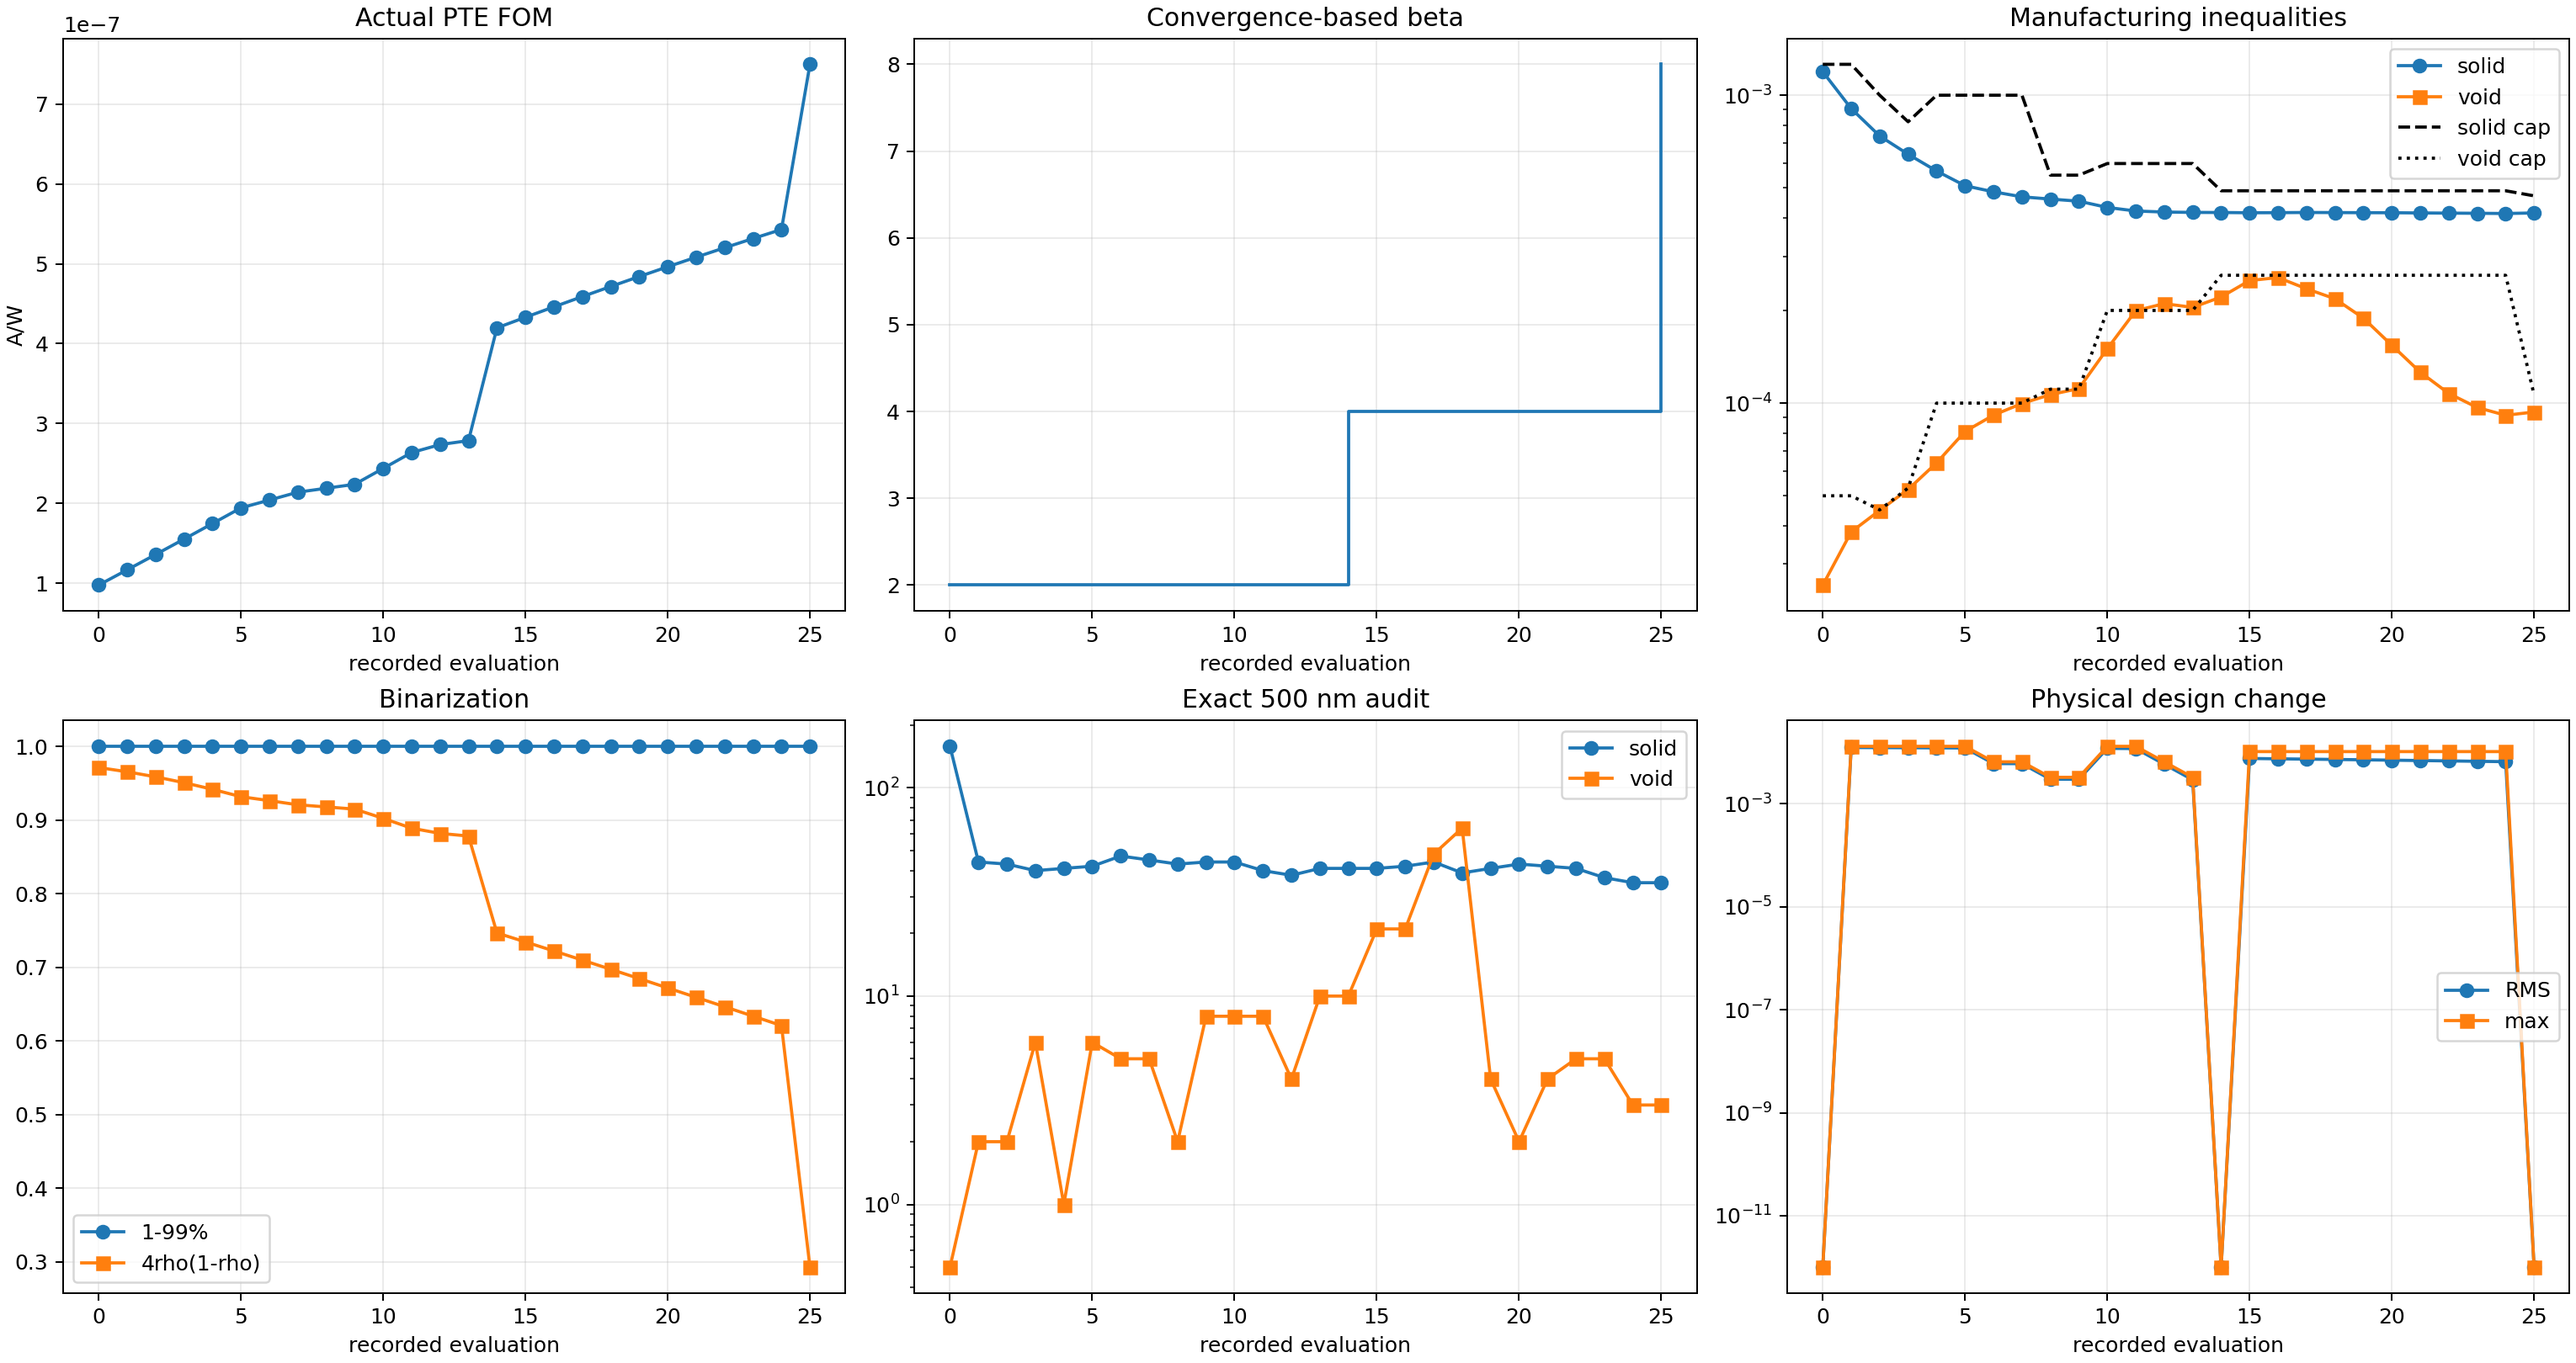
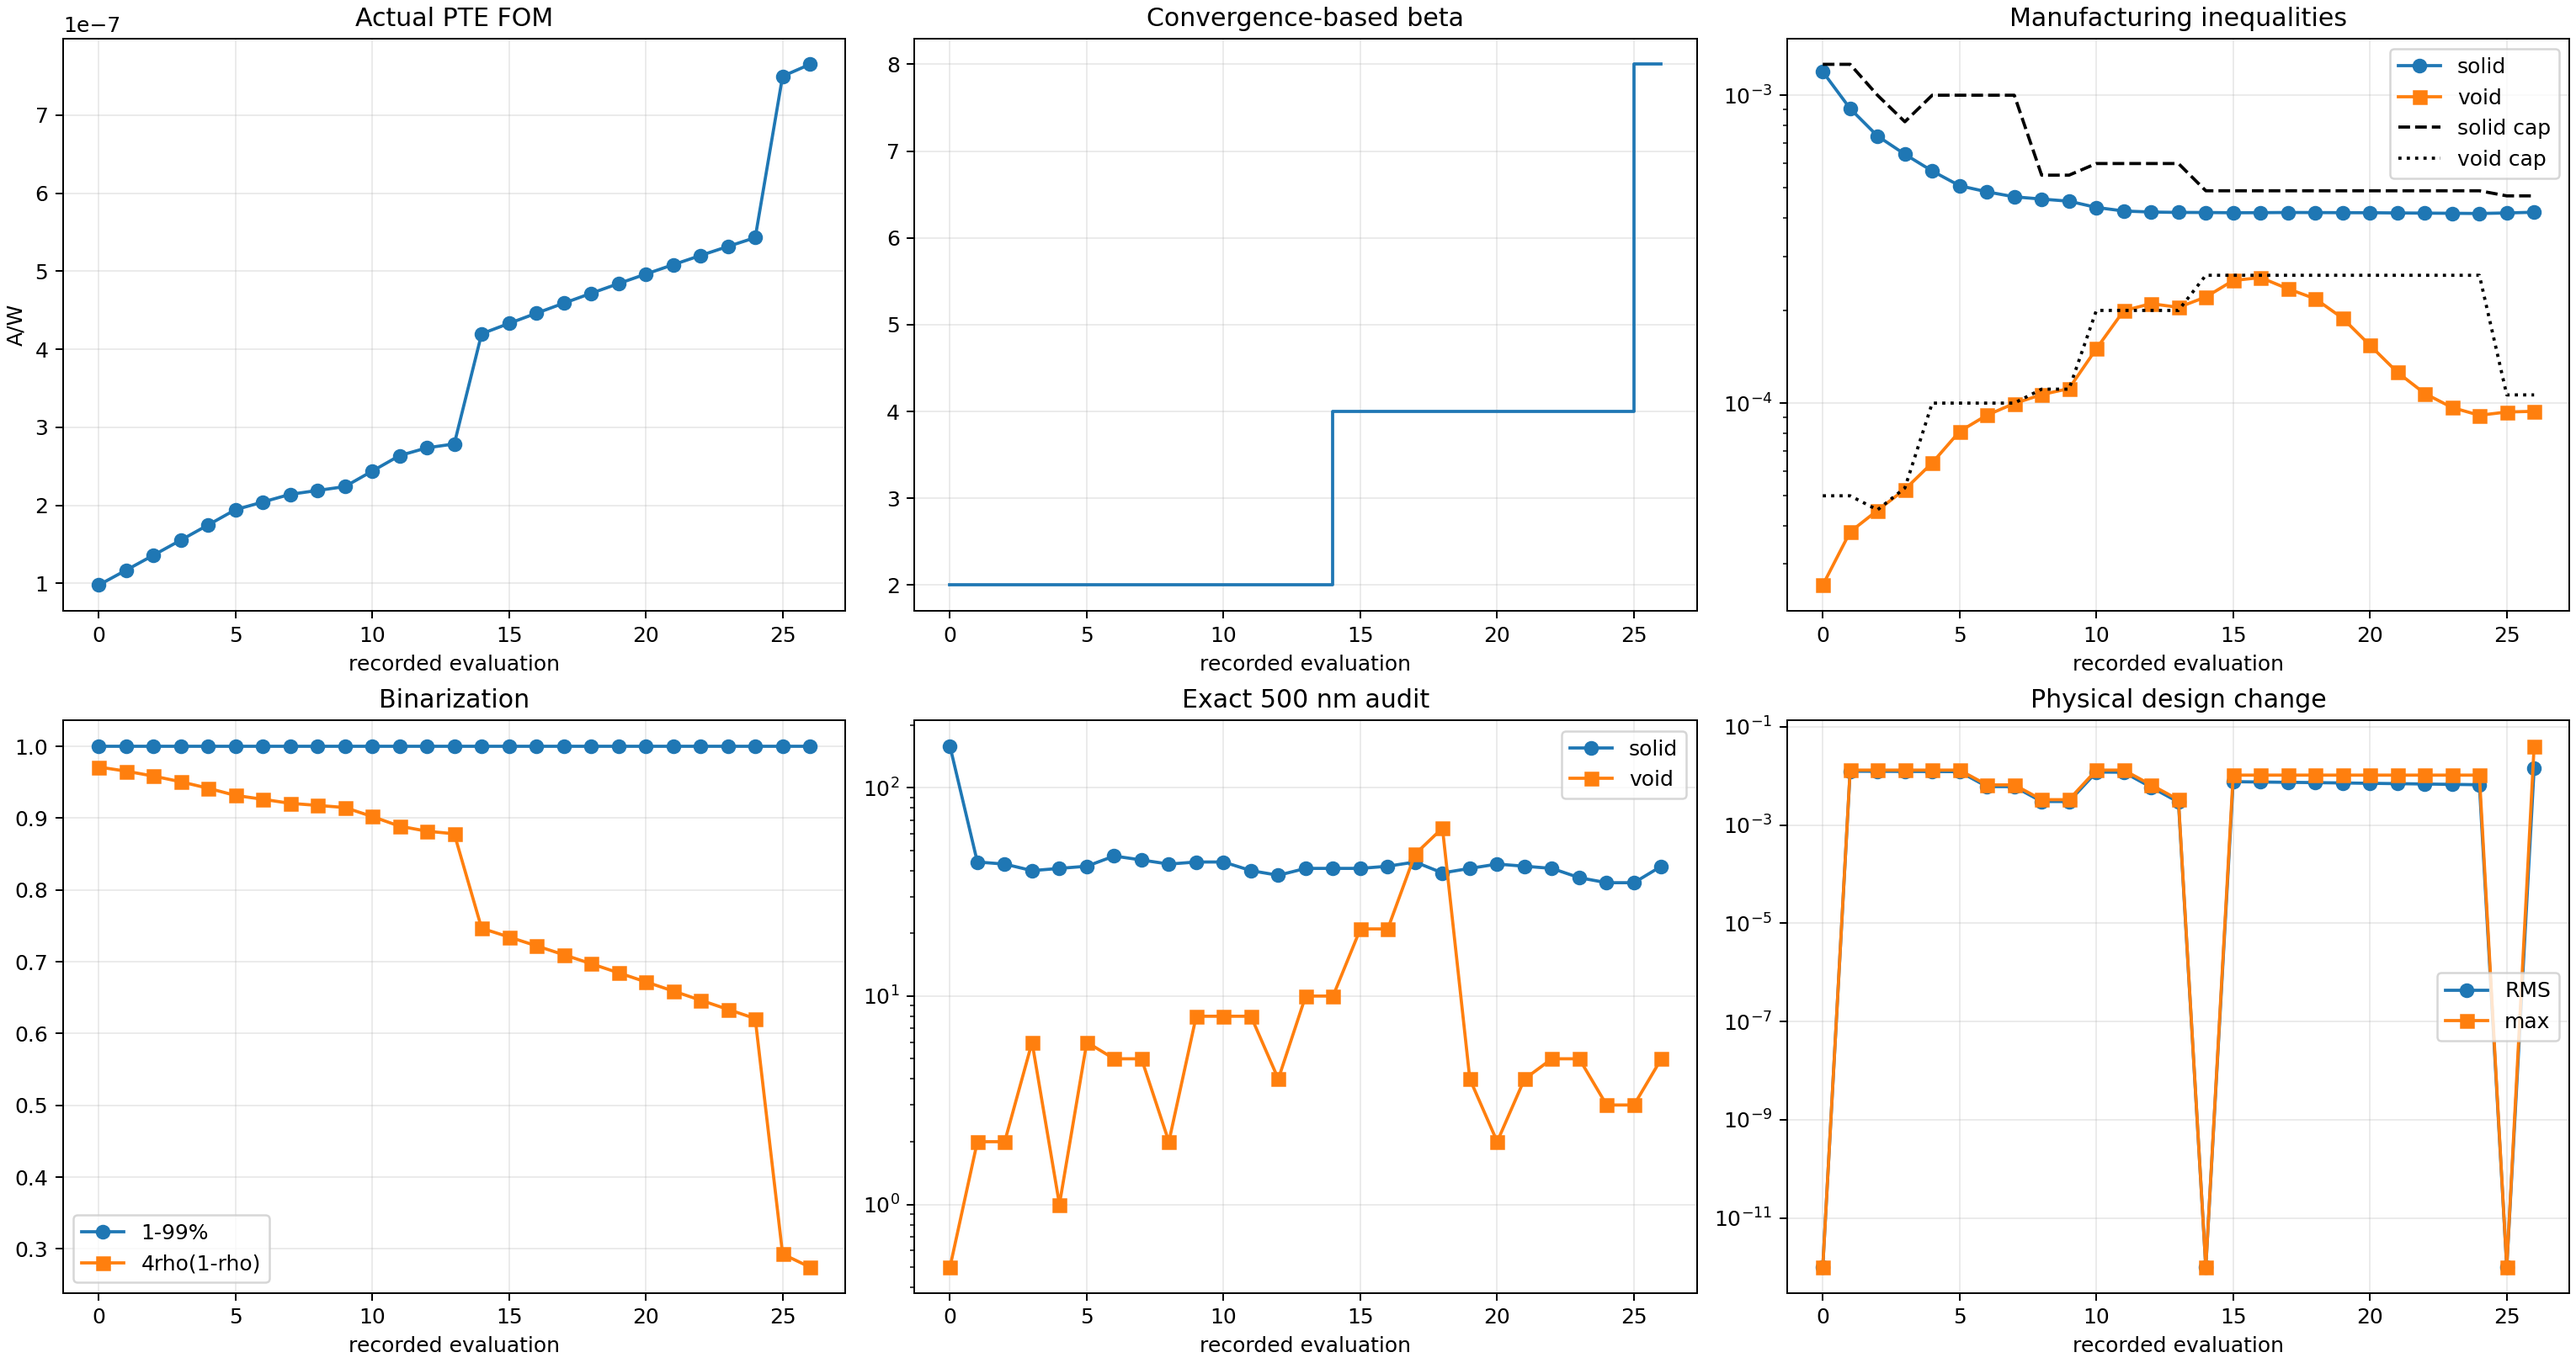
Record Run 005 run005_b008_s001_g024_accepted_mma

diff --git a/photothermal_pte/optimization_runs/run_005_lowbeta_topology_exploration_pilot/results/OPTIMIZATION_REPORT.md b/photothermal_pte/optimization_runs/run_005_lowbeta_topology_exploration_pilot/results/OPTIMIZATION_REPORT.md
@@ -2,12 +2,12 @@
 
 Status: `RUNNING_RUN005_FULL_BINARY_BETA_CONTINUATION`
 
-Current stage: beta=8, accepted stage iteration=0, global iteration=23.
+Current stage: beta=8, accepted stage iteration=1, global iteration=24.
 
 Constraint contract: `soft_disk_opening_500nm_from_iteration_zero_v5`.
 
-Actual FOM: `7.497215972771e-07 A/W`. Fixed-cap solid/void constraints: `4.146047e-04` / `9.357092e-05` with caps `4.711417e-04` / `1.063306e-04`.
+Actual FOM: `7.650255049827e-07 A/W`. Fixed-cap solid/void constraints: `4.167770e-04` / `9.404512e-05` with caps `4.711417e-04` / `1.063306e-04`.
 
-Exact 500 nm bad cells: solid `35`, void `3`. Stage convergence: `False` (need at least 6 accepted updates).
+Exact 500 nm bad cells: solid `42`, void `5`. Stage convergence: `False` (need at least 6 accepted updates).
 
 Beta advances only after the stage FOM/density plateau. The run is not complete until the projected-binary and exact 500 nm gates pass and a fresh thresholded-binary GPU/CUDA evaluation succeeds.
